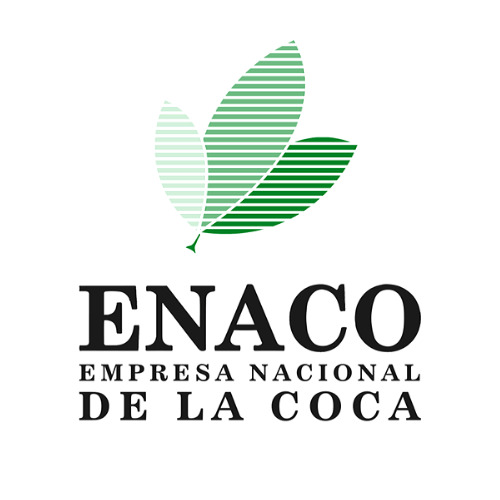
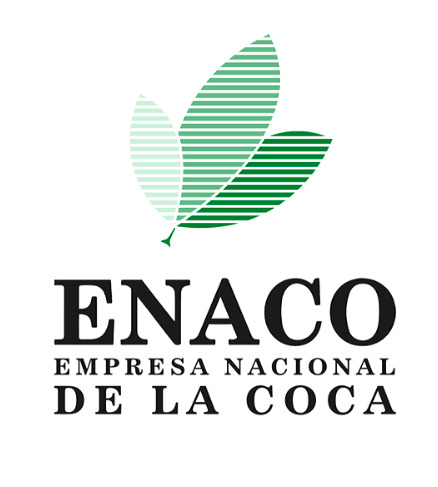
update

diff --git a/index.html b/index.html
@@ -325,7 +325,7 @@
                                 <span class="fa-stack fa-5x">
                                 <!-- <i class="fa fa-circle fa-stack-2x"></i> -->
                                 <!-- <i class="fa fa-flask fa-stack-1x text-primary"></i> -->
-                                    <img class="img-responsive" src="img/enacotest_.jpg">
+                                    <img class="img-responsive" src="img/enaco_s_a.jpg">
                             </span>
                             <br>
                             <br>
@@ -354,40 +354,6 @@
                                 <strong>Matadero de la C.C. de Quicapata</strong>
                             </h5>
                                 <p>Periodo 2018 - 2020</p>
-                                <!-- <a href="#" class="btn btn-light">Learn More</a> -->
-                            </div>
-                        </div>
-                        <div class="col-md-3 col-sm-6">
-                            <div class="service-item">
-                                <span class="fa-stack fa-5x">
-                                <!-- <i class="fa fa-circle fa-stack-2x"></i> -->
-                                <!-- <i class="fa fa-flask fa-stack-1x text-primary"></i> -->
-                                    <img class="img-responsive" src="img/enaco_s_a.jpg">
-                            </span>
-                            <br>
-                            <br>
-                            <br>
-                            <h5>
-                                <strong>Empresa Nacional de la Coca</strong>
-                            </h5>
-                                <p>Periodo 2017-2020</p>
-                                <!-- <a href="#" class="btn btn-light">Learn More</a> -->
-                            </div>
-                        </div>
-                        <div class="col-md-3 col-sm-6">
-                            <div class="service-item">
-                                <span class="fa-stack fa-5x">
-                                <!-- <i class="fa fa-circle fa-stack-2x"></i> -->
-                                <!-- <i class="fa fa-flask fa-stack-1x text-primary"></i> -->
-                                    <img class="img-responsive" src="img/enaco_tst2.jpg">
-                            </span>
-                            <br>
-                            <br>
-                            <br>
-                            <h5>
-                                <strong>Empresa Nacional de la Coca</strong>
-                            </h5>
-                                <p>Periodo 2017-2020</p>
                                 <!-- <a href="#" class="btn btn-light">Learn More</a> -->
                             </div>
                         </div>
